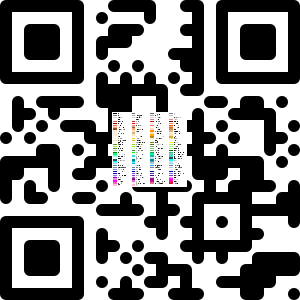
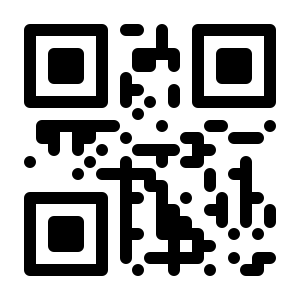
wwaf

diff --git a/QRCodeGeneratorUI.java b/QRCodeGeneratorUI.java
@@ -59,10 +59,10 @@ public class QRCodeGeneratorUI extends JFrame {
         bgColorBox.setBorder(BorderFactory.createLineBorder(Color.BLACK));
 
         colorPanel.add(fgColorButton);
-        colorPanel.add(new JLabel("現在の色:"));
+        colorPanel.add(new JLabel("現在の色 : "));
         colorPanel.add(fgColorBox);
         colorPanel.add(bgColorButton);
-        colorPanel.add(new JLabel("現在の色:"));
+        colorPanel.add(new JLabel("現在の色 : "));
         colorPanel.add(bgColorBox);
 
         // ファイル選択ボタン
@@ -70,15 +70,15 @@ public class QRCodeGeneratorUI extends JFrame {
         JButton iconButton = new JButton("ファイルを選択する");
         JLabel fileLabel = new JLabel("なし");
 
-        filePanel.add(new JLabel("選択されたファイル:"));
+        filePanel.add(new JLabel("選択されたファイル : "));
         filePanel.add(fileLabel);
         filePanel.add(iconButton);
 
         // ★ アルゴリズム選択用のコンボボックスを追加
         JPanel algoPanel = new JPanel(new FlowLayout());
         // 選択肢は「通常描画」と「丸ドット描画」
-        JComboBox<String> algorithmComboBox = new JComboBox<>(new String[] { "通常描画", "丸ドット描画" });
-        algoPanel.add(new JLabel("描画アルゴリズム:"));
+        JComboBox<String> algorithmComboBox = new JComboBox<>(new String[] { "四角ドット", "丸ドット" });
+        algoPanel.add(new JLabel("QRコードの見た目 : "));
         algoPanel.add(algorithmComboBox);
 
         // 各パネルを最上部パネルに追加
@@ -140,7 +140,7 @@ public class QRCodeGeneratorUI extends JFrame {
                 BufferedImage qrImage;
                 // コンボボックスの選択に応じたアルゴリズム呼び出し
                 String selectedAlgorithm = (String) algorithmComboBox.getSelectedItem();
-                if ("丸ドット描画".equals(selectedAlgorithm)) {
+                if ("丸ドット".equals(selectedAlgorithm)) {
                     // ドットサイズを適当に12固定 (お好みで変更可能)
                     int dotSize = 12;
                     qrImage = QRCodeGenerator.otherCircleQRCode(url, dotSize, qrColor, bgColor);
